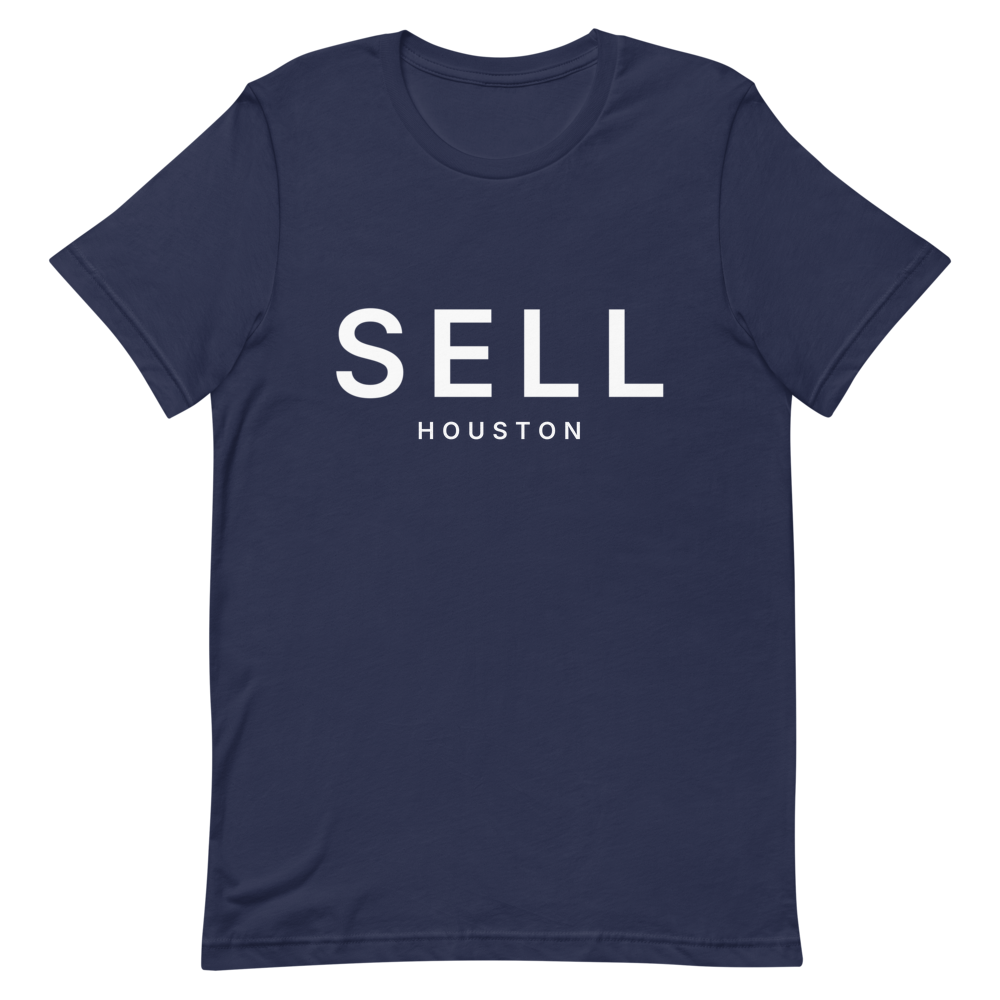
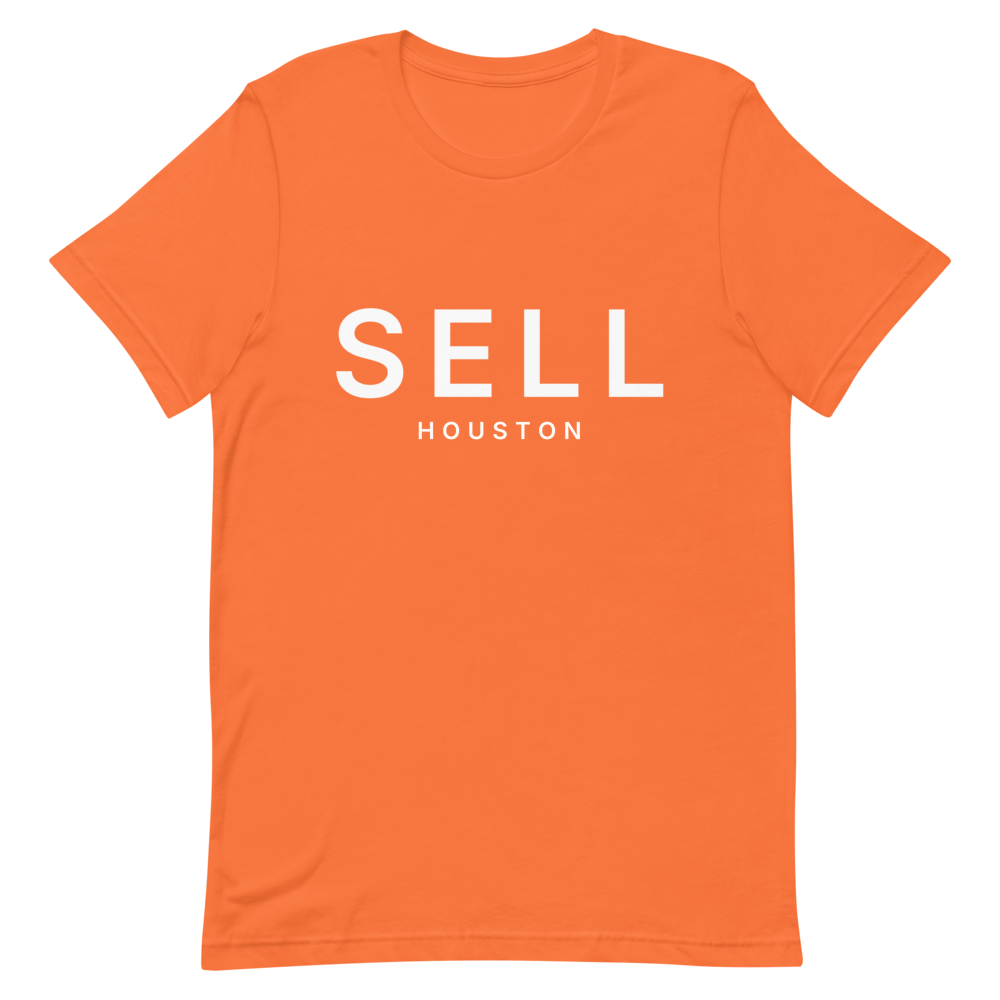
Houston orange, Seattle teal
Matched to each team's official color: Houston orange #EB6E1F (Printful
Orange) and Seattle Northwest Green #005C5C (Heather Deep Teal, the closest
stocked tee). Printful has no teal hoodie, so Seattle's hoodie stays in the
team's navy.

diff --git a/lib/teams.ts b/lib/teams.ts
@@ -76,9 +76,9 @@ const ROWS: Row[] = [
   ["minnesota", "al-central", "Minnesota", "Twins", "MINNESOTA", "Navy", "Navy"],
   // AL West
   ["oakland", "al-west", "Oakland", "A's", "OAKLAND", "Kelly", "Irish Green"],
-  ["houston", "al-west", "Houston", "Astros", "HOUSTON", "Navy", "Navy"],
+  ["houston", "al-west", "Houston", "Astros", "HOUSTON", "Orange", "Orange"],
   ["anaheim", "al-west", "Anaheim", "Angels", "ANAHEIM", "Red", "Red"],
-  ["seattle", "al-west", "Seattle", "Mariners", "SEATTLE", "Navy", "Navy"],
+  ["seattle", "al-west", "Seattle", "Mariners", "SEATTLE", "Heather Deep Teal", "Navy"],
   ["texas", "al-west", "Texas", "Rangers", "TEXAS", "True Royal", "Royal"],
   // NL East
   ["atlanta", "nl-east", "Atlanta", "Braves", "ATLANTA", "Navy", "Navy"],

diff --git a/lib/products.ts b/lib/products.ts
@@ -58,6 +58,7 @@ const PLAIN_COLOR: Record<string, string> = {
   Kelly: "green", "Irish Green": "green", "True Royal": "royal blue", Royal: "royal blue", "Team Purple": "purple",
   Forest: "dark green", "Forest Green": "dark green", Cardinal: "dark red", "Heather Columbia Blue": "light blue",
   "Carolina Blue": "light blue", "Dark Chocolate": "brown", Natural: "cream", Sand: "tan",
+  "Heather Deep Teal": "teal",
 };
 
 export function colorLabel(team: Team, style: Style): string {

diff --git a/lib/art.ts b/lib/art.ts
@@ -1,4 +1,4 @@
 // Bump when the shirt artwork or photos change: Printful caches print files by
 // URL and next/image caches optimized photos by URL, so a new number makes
 // both fetch fresh copies.
-export const ART_VERSION = 6;
+export const ART_VERSION = 7;
